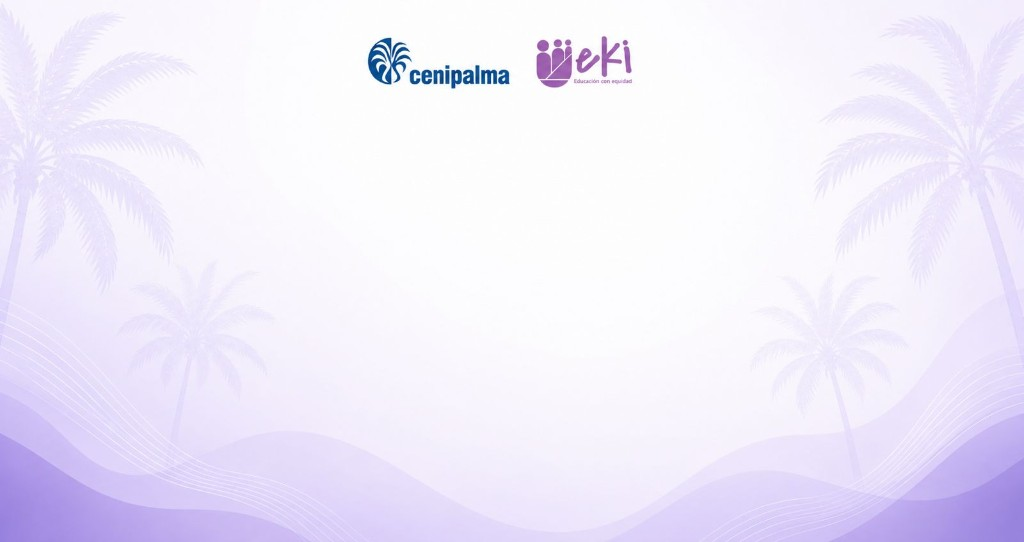
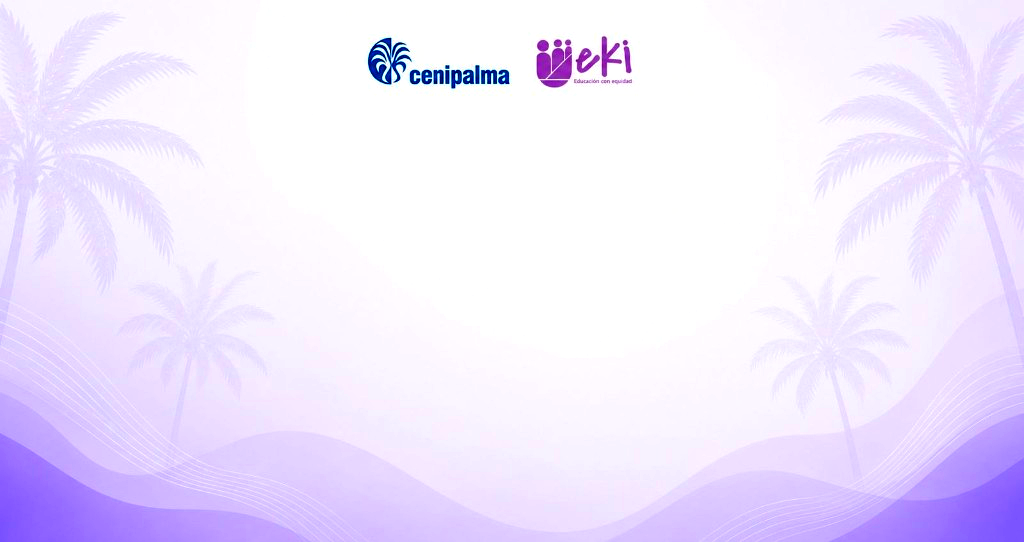
Make org wallpapers visible in Aprende and add Cenipalma solo-clases ops.
Lower the student background veil so branded wallpapers show; add prod scripts to keep only Clases Aprende.

Changed region(s): [[0.0, 0.7675, 0.3125, 1.0], [0.8125, 0.7675, 1.0, 1.0], [0.3438, 0.059, 0.625, 0.1771]]

diff --git a/aprende/templates/aprende/base.html b/aprende/templates/aprende/base.html
@@ -100,13 +100,20 @@
             overflow-x: clip;
         }
 
-        /* Fondo personalizado del cliente — solo sesión estudiante */
+        /* Fondo personalizado del cliente — solo sesión estudiante.
+           Velo ligero: el asset debe notarse (palmas/olas); las cards ya son opacas. */
         body.eki-has-org-wallpaper {
+            background-color: #ebe4f2;
             background-image:
-                linear-gradient(180deg, rgba(244, 242, 247, 0.88) 0%, rgba(244, 242, 247, 0.92) 100%),
+                linear-gradient(
+                    165deg,
+                    rgba(255, 255, 255, 0.28) 0%,
+                    rgba(244, 242, 247, 0.42) 45%,
+                    rgba(235, 228, 242, 0.55) 100%
+                ),
                 var(--eki-org-wallpaper);
             background-size: cover;
-            background-position: center;
+            background-position: center top;
             background-attachment: fixed;
             background-repeat: no-repeat;
         }
